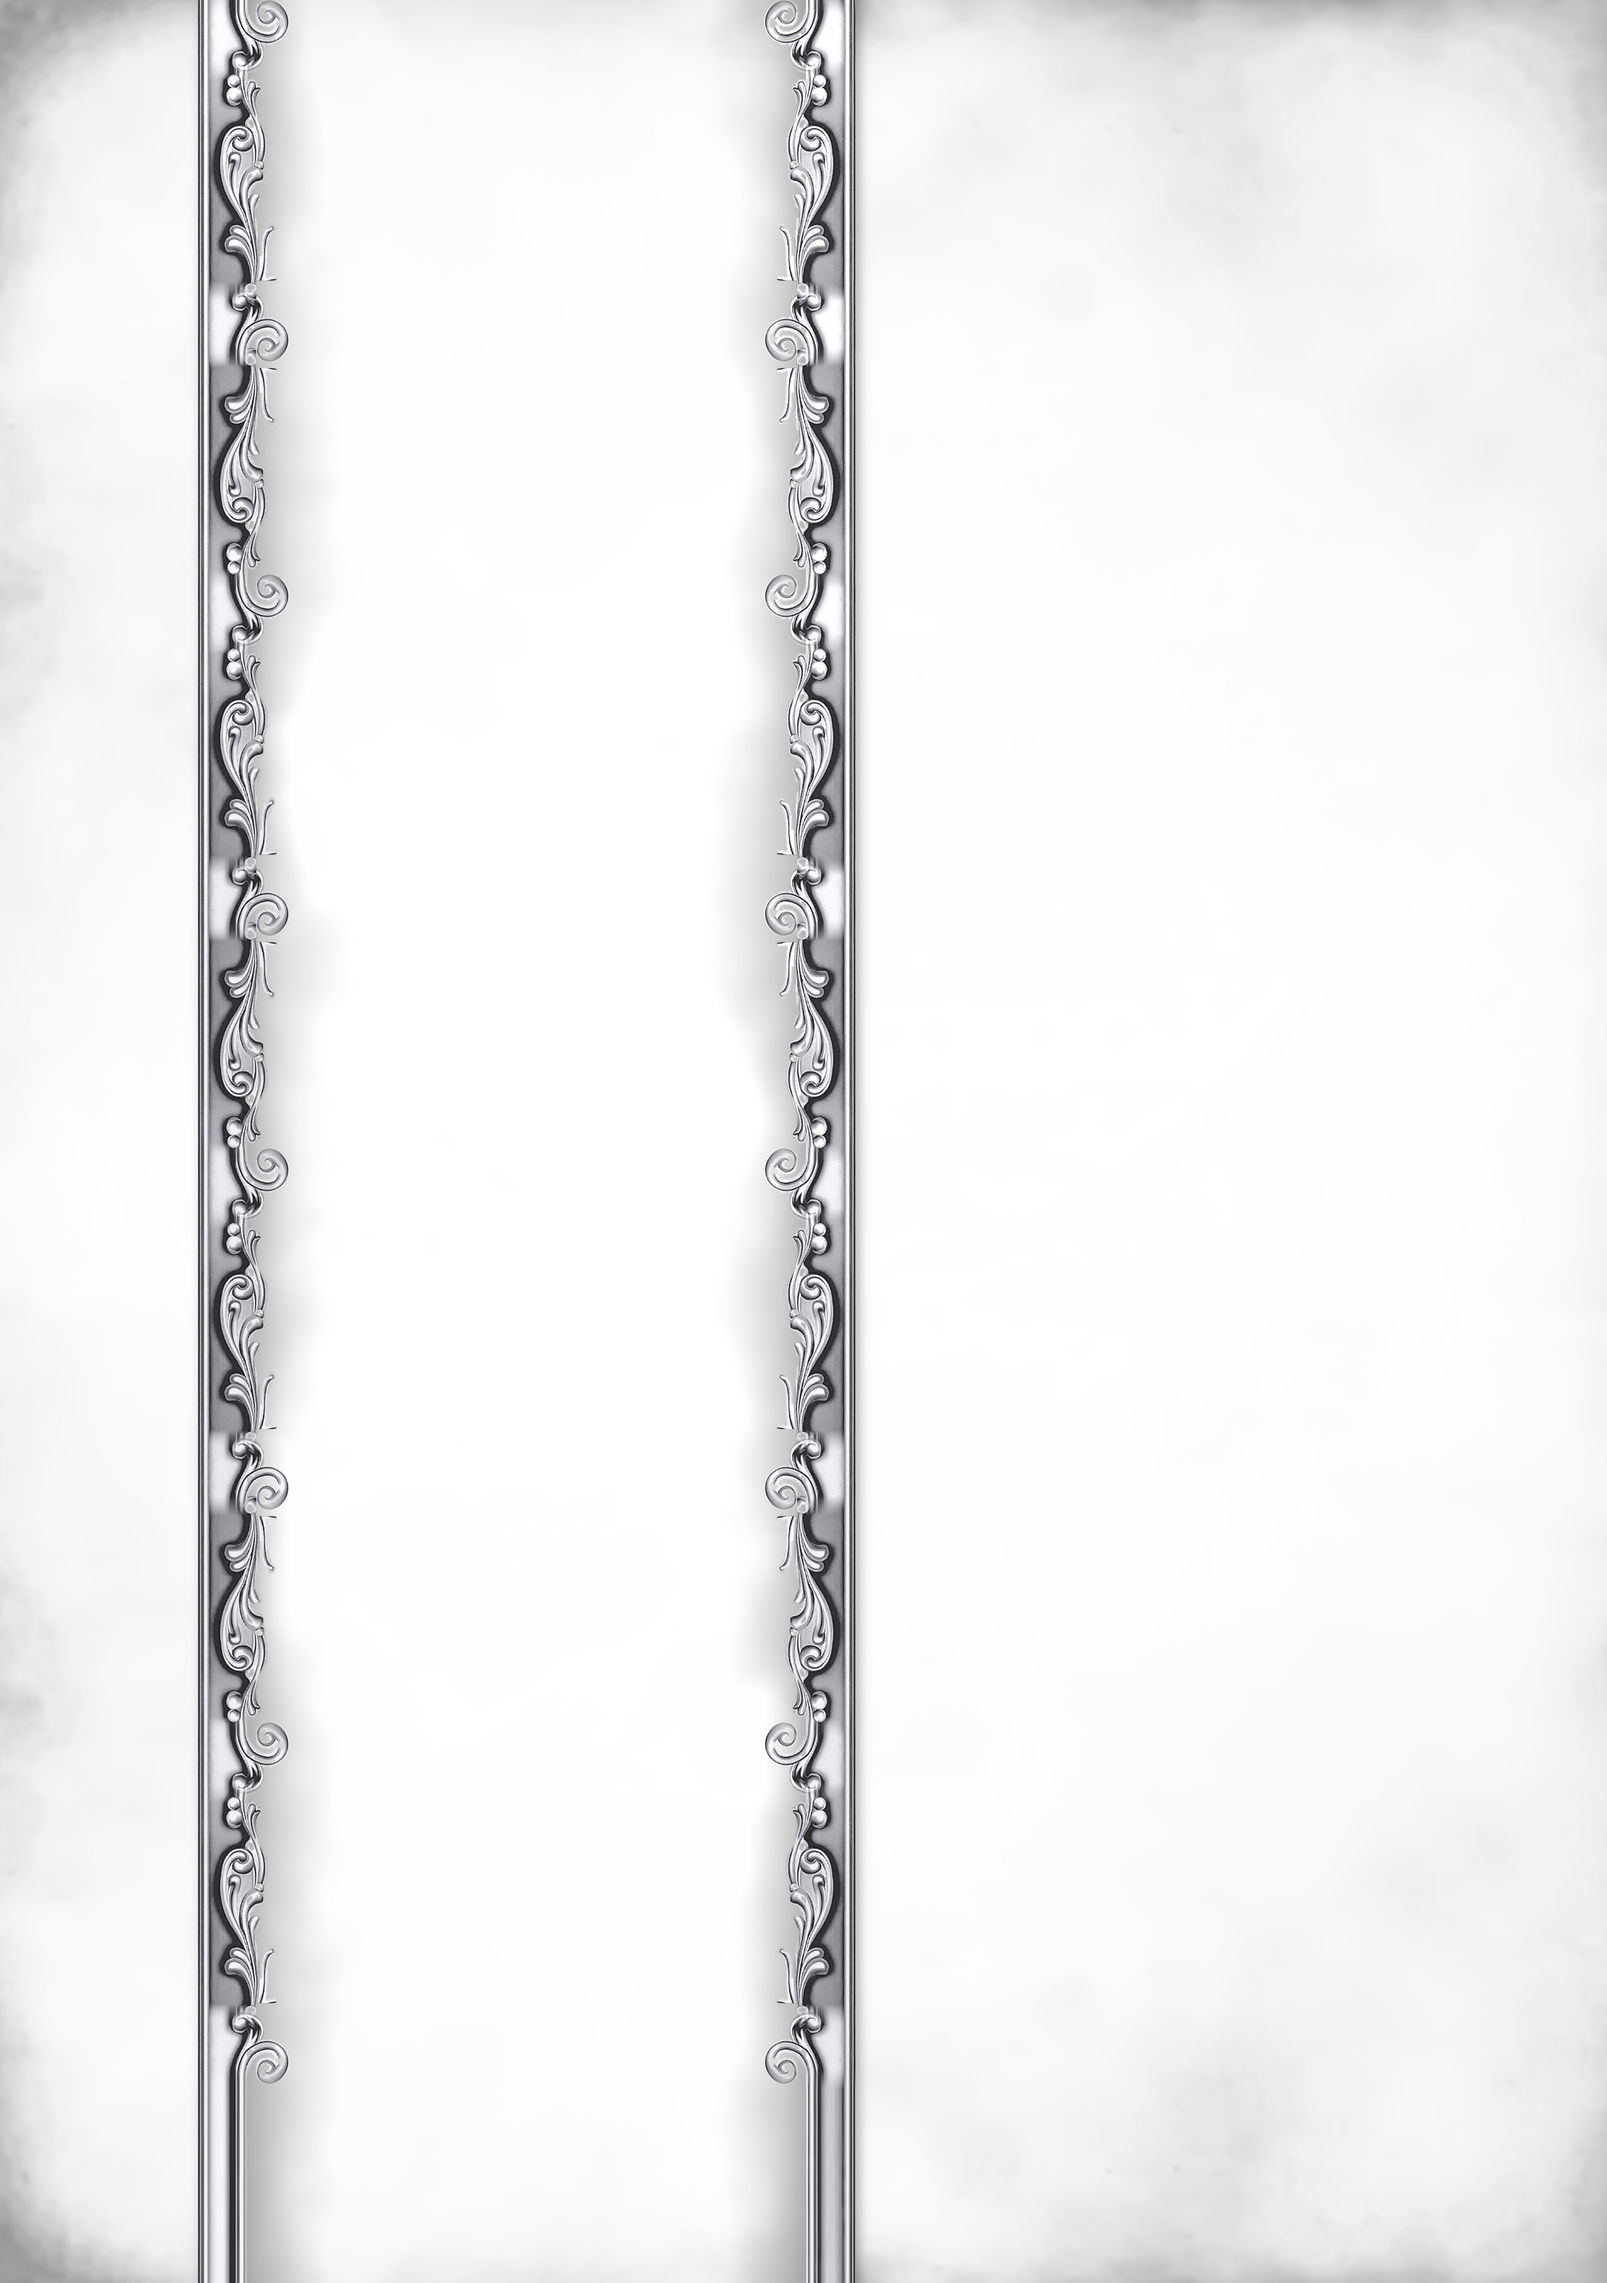
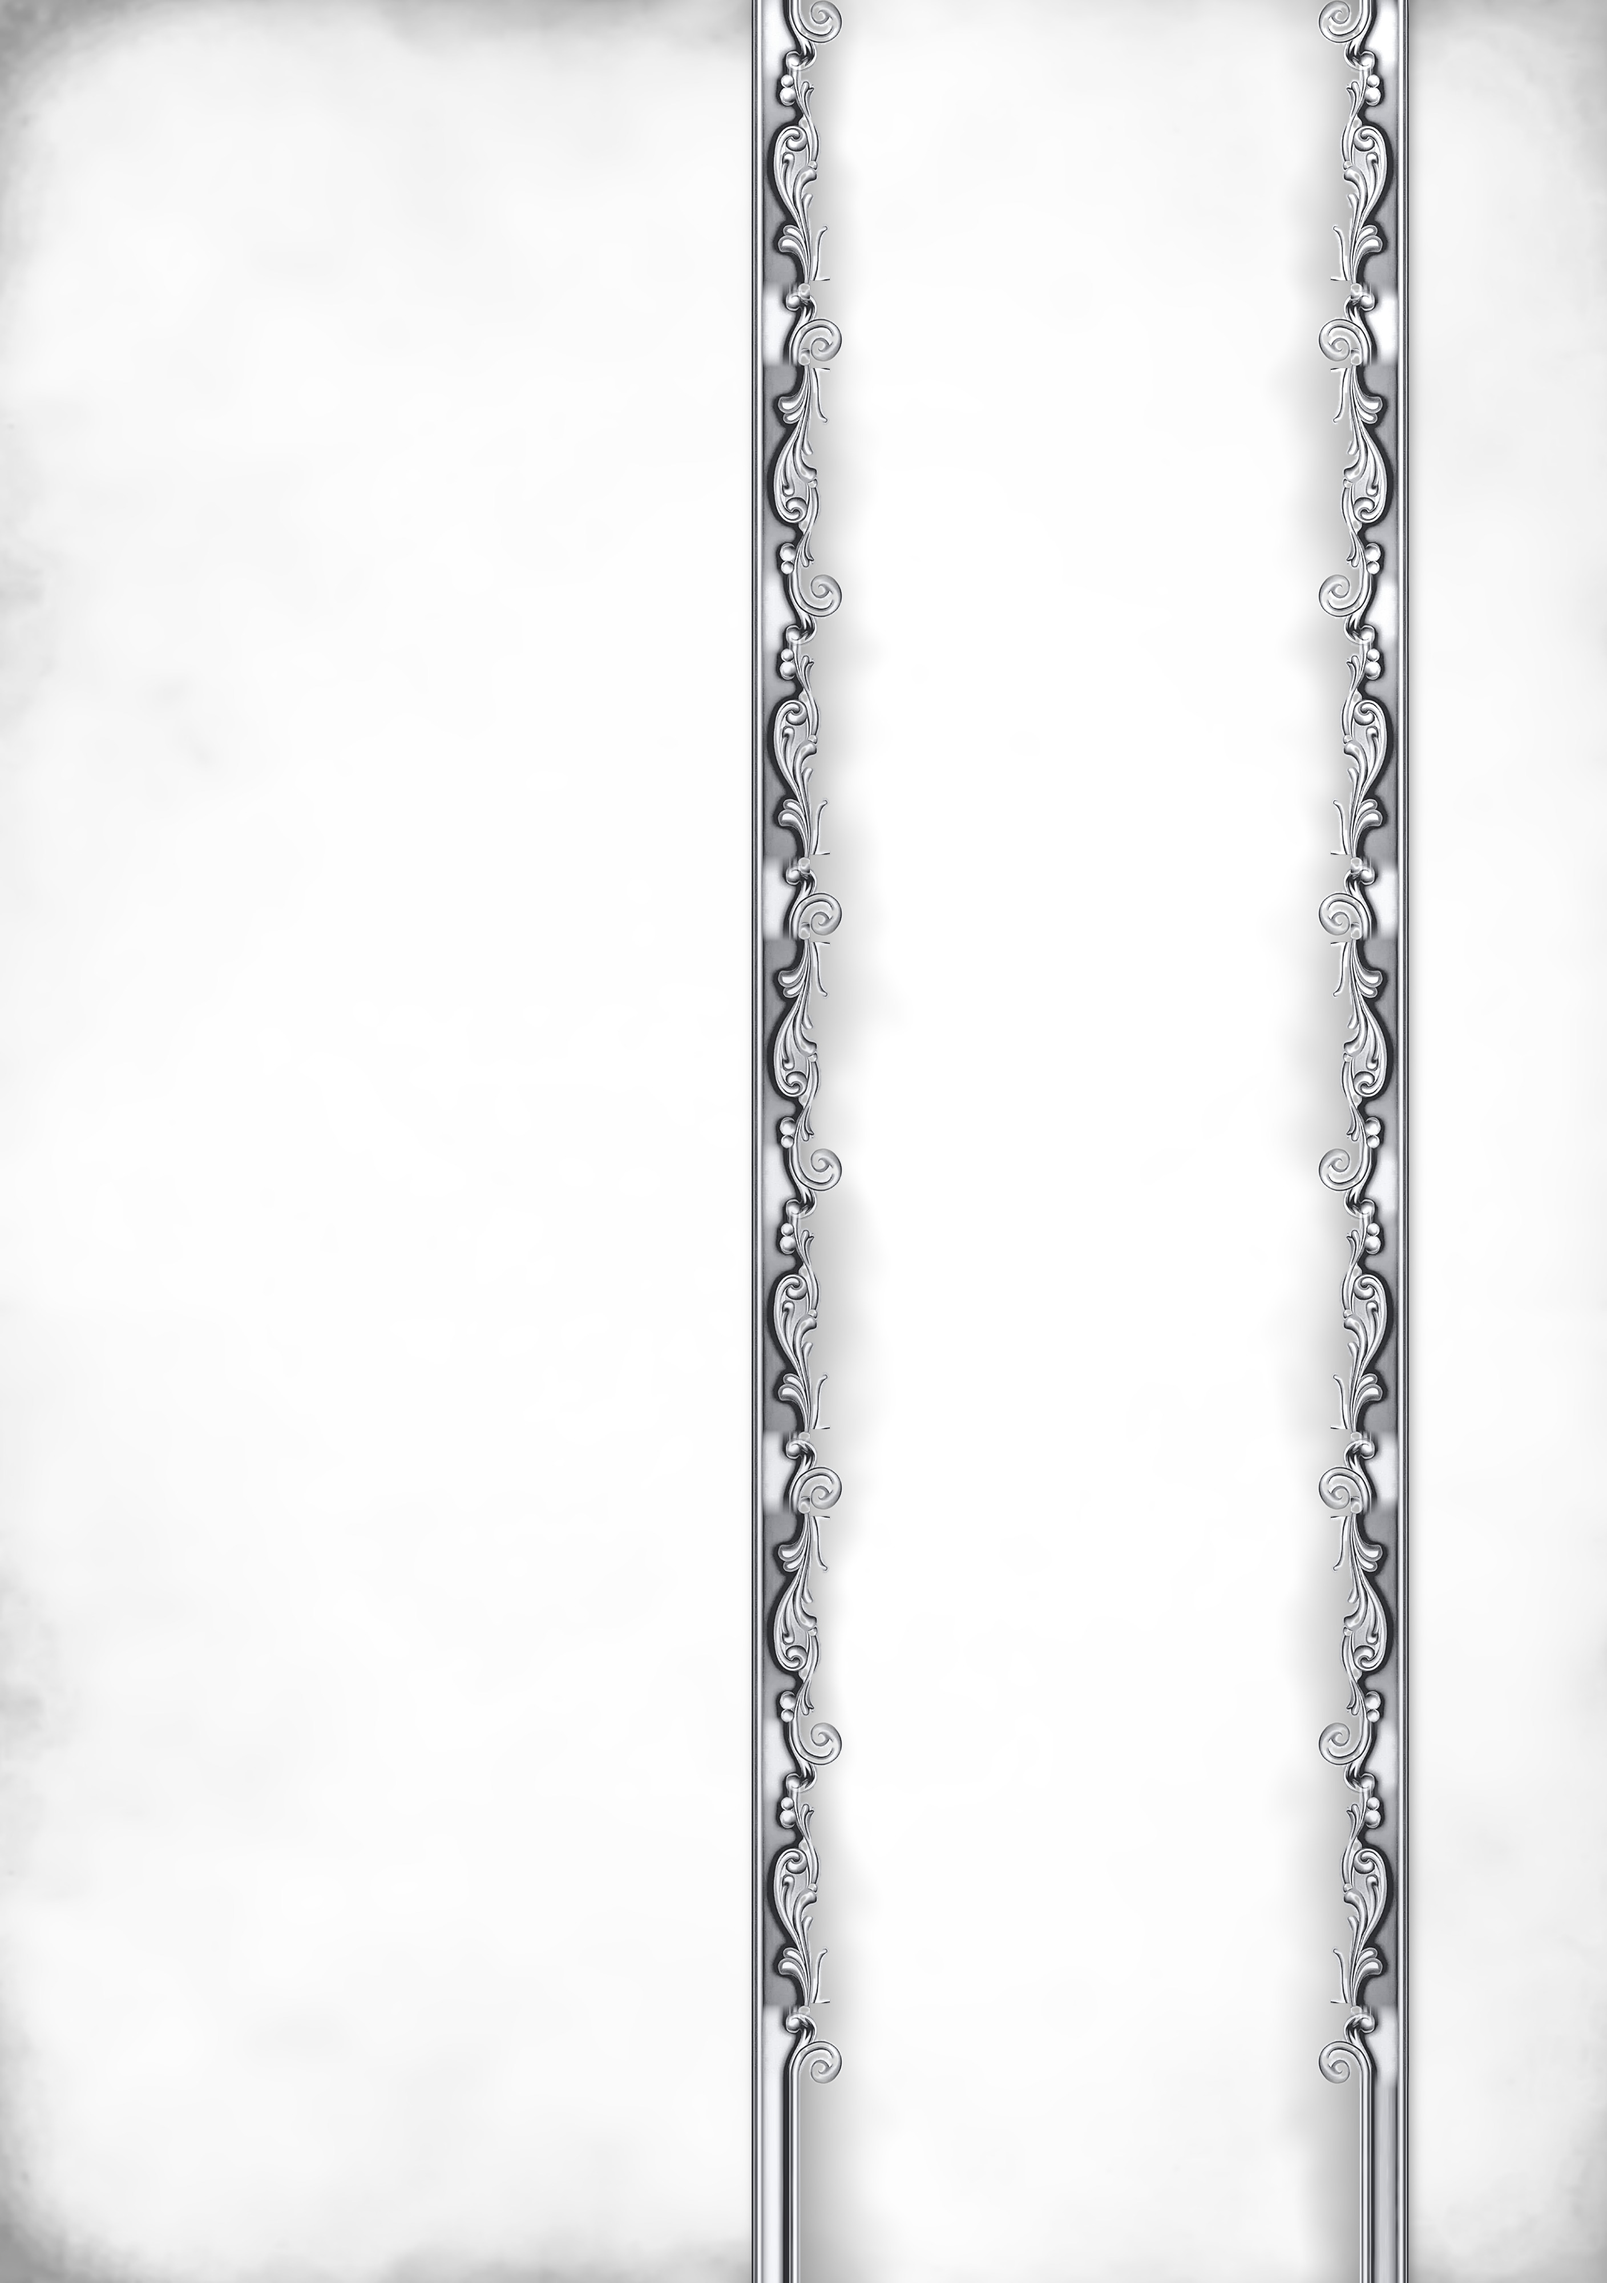
Credits page: Asher, right-hand axis; dividers always on odd pages (empty page before when needed)
Claude-Session: https://claude.ai/code/session_0161ijXJJcwCxR7y44e5HXLU

Changed region(s): [[0.125, 0.0, 0.5625, 1.0], [0.625, 0.0, 0.9062, 1.0]]

diff --git a/typeset/engine.js b/typeset/engine.js
@@ -121,12 +121,12 @@
   // the credits page: the two ornamented pillars of the dividers (artwork by make_divider.py, kind 'credits'), all the details between them, the small flourish between the
   // details; the items (texts, logos, separators) are listed in config.json -> credits.items
   function creditsHTML(cfg) {
-    const K = cfg.credits, F = cfg.fonts || {}, axis = (cfg.divider && cfg.divider.axis) || 57.7, fam = { body: F.body, display: F.display, lead: F.lead };
+    const K = cfg.credits, F = cfg.fonts || {}, axis = K.axis || (cfg.divider && cfg.divider.axis) || 57.7, fam = { body: F.body, display: F.display, lead: F.lead, notes: F.notes };
     const gapOf = (it) => (it.gap !== undefined ? it.gap : K.gap);
     const items = K.items.map((it) => {
       if (it.sep) return `<img src="${K.sep.image}" style="width:${K.sep.w}mm;display:block;margin:0 0 ${gapOf(it)}mm">`;
       if (it.logo) return `<img src="${it.logo}" style="width:${it.w}mm;display:block;margin:0 0 ${gapOf(it)}mm">`;
-      return `<div style="font-family:'${fam[it.font || 'body']}';font-size:${it.size}pt;line-height:${it.lh || 1.3};${it.bold ? 'font-weight:700;' : ''}margin:0 0 ${gapOf(it)}mm">${it.html}</div>`;
+      return `<div style="font-family:'${fam[it.font || K.font || 'body']}';font-size:${it.size}pt;line-height:${it.lh || 1.3};${it.bold ? 'font-weight:700;' : ''}margin:0 0 ${gapOf(it)}mm">${it.html}</div>`;
     }).join('');
     return `<img src="${K.image}" style="position:absolute;left:0;top:0;width:100%;height:100%">` +
       `<style>.crd b{font-weight:700}</style>` +
@@ -809,10 +809,14 @@
     const nToc = tocPlaceholder.length;
     let pageNo = (doc.firstPageNumber || 1) + nToc;       // ToC pages are counted in the numbering, the cover is not
     const startNo = [], divNo = [];
-    seq.forEach((it) => {
-      if (it.kind === 'div') { it.no = pageNo; divNo[it.ai] = pageNo++; }
-      else { startNo[it.ai] = pageNo; artPages[it.ai].forEach((p) => { p.no = pageNo++; }); }
-    });
+    const blanks = [];
+    for (let k = 0; k < seq.length; k++) {                // a divider is always an odd page: where it would fall on an even page, an empty page (counted, no head, no number) goes before it
+      const it = seq[k];
+      if (it.kind === 'div') {
+        if (pageNo % 2 === 0) { seq.splice(k, 0, { kind: 'blank', no: pageNo }); blanks.push(pageNo); pageNo++; k++; }
+        it.no = pageNo; divNo[it.ai] = pageNo++;
+      } else { startNo[it.ai] = pageNo; artPages[it.ai].forEach((p) => { p.no = pageNo++; }); }
+    }
     const tocPages = paginateToc(tocRows((i) => startNo[i], (i) => divNo[i]));
     if (tocPages.length !== nToc) console.log('warning: toc page count changed');
 
@@ -924,6 +928,7 @@
     });
 
     seq.forEach((it) => {
+      if (it.kind === 'blank') { root.appendChild(newPage()); return; }
       if (it.kind === 'div') {
         const pg = newPage();
         if (cfg.divider && cfg.divider.enabled && cfg.cover && cfg.cover.enabled) {
@@ -1034,7 +1039,7 @@
       });
     });
     curPage = null;
-    return { stats: STATS, pages: root.children.length, toc: articles.map((a, i) => ({ title: a.title, page: startNo[i], pages: artPages[i].length })), tocPages: nToc, titleBoxes, dividerBoxes, dividerPages: divNo, dividers: articles.map((a, i) => (a.divider ? { ai: i, label: a.divider } : null)).filter(Boolean), headerTitles: articles.map((a) => headerTitle(a)), headerAuthors: articles.map((a) => headerAuthor(a)) };
+    return { stats: STATS, pages: root.children.length, toc: articles.map((a, i) => ({ title: a.title, page: startNo[i], pages: artPages[i].length })), tocPages: nToc, titleBoxes, dividerBoxes, dividerPages: divNo, blankPages: blanks, dividers: articles.map((a, i) => (a.divider ? { ai: i, label: a.divider } : null)).filter(Boolean), headerTitles: articles.map((a) => headerTitle(a)), headerAuthors: articles.map((a) => headerAuthor(a)) };
   }
 
   window.typeset = typeset;

diff --git a/typeset/pages_preview.js b/typeset/pages_preview.js
@@ -15,7 +15,7 @@ try { ({ chromium } = require('playwright')); } catch (e) { ({ chromium } = requ
   await p.goto('file://' + path.join(__dirname, 'template.html'));
   await p.addStyleTag({ content: css });
   await p.addScriptTag({ path: path.join(__dirname, 'engine.js') });
-  await p.evaluate(async (f) => { await Promise.all(f.flatMap((x) => [400, 700].map((w) => document.fonts.load(w + ' 16px "' + x + '"', 'אבג')))); }, [cfg.cover.fontTitle, cfg.cover.fontArc, cfg.cover.fontLines, cfg.fonts.body, cfg.fonts.display, cfg.fonts.lead]);
+  await p.evaluate(async (f) => { await Promise.all(f.flatMap((x) => [400, 700].map((w) => document.fonts.load(w + ' 16px "' + x + '"', 'אבג')))); }, [cfg.cover.fontTitle, cfg.cover.fontArc, cfg.cover.fontLines, cfg.fonts.body, cfg.fonts.display, cfg.fonts.lead, cfg.fonts.notes]);
   for (const [fn, file] of [['innerCoverHTML', 'inner-cover.png'], ['creditsHTML', 'credits.png']]) {
     await p.evaluate(([c, n, f]) => { document.body.style.margin = '0'; document.body.innerHTML = '<div id="cv" class="page cover" style="width:176mm;height:250mm;position:relative;overflow:hidden">' + window[f](c, n) + '</div>'; }, [cfg, doc.book.name, fn]);
     await p.evaluate(() => Promise.all([...document.images].map((im) => im.decode().catch(() => {}))));

diff --git a/typeset/build.js b/typeset/build.js
@@ -193,7 +193,7 @@ try { ({ chromium } = require('playwright')); } catch (e) { ({ chromium } = requ
     await ip.goto('file://' + path.join(__dirname, 'template.html'));
     await ip.addStyleTag({ content: styleCss });
     await ip.addScriptTag({ path: path.join(__dirname, 'engine.js') });
-    await ip.evaluate(async (fams) => { await Promise.all(fams.flatMap((f) => [400, 700].map((w) => document.fonts.load(w + ' 16px "' + f + '"', 'אבג')))); await document.fonts.ready; }, [cfg.cover.fontTitle, cfg.cover.fontArc, cfg.cover.fontLines, cfg.fonts.body, cfg.fonts.display, cfg.fonts.lead]);
+    await ip.evaluate(async (fams) => { await Promise.all(fams.flatMap((f) => [400, 700].map((w) => document.fonts.load(w + ' 16px "' + f + '"', 'אבג')))); await document.fonts.ready; }, [cfg.cover.fontTitle, cfg.cover.fontArc, cfg.cover.fontLines, cfg.fonts.body, cfg.fonts.display, cfg.fonts.lead, cfg.fonts.notes]);
     for (const [key, fn, file] of [['innerCover', 'innerCoverHTML', 'inner-cover.jpg'], ['credits', 'creditsHTML', 'credits.jpg']]) {
       if (!(cfg[key] && cfg[key].enabled)) continue;
       await ip.evaluate(([c, name, f]) => {

diff --git a/typeset/make_docx.py b/typeset/make_docx.py
@@ -529,7 +529,7 @@ def build(doc_json, layout_json, cfg_json, out):
         div_jpg = os.path.join(os.path.dirname(os.path.abspath(out)), 'dividers', f'div-{ai}.jpg')
         if art.get('divider') and lay and os.path.exists(div_jpg):
             MEDIA.add(f'div-{ai}.jpg', open(div_jpg, 'rb').read())
-            parts.append(para(picture_page(f'div-{ai}.jpg', 176, 250), spacing='<w:spacing w:before="0" w:after="0" w:line="240" w:lineRule="auto"/>', sect=sectpr('nextPage', 1, empty_ids)))
+            parts.append(para(picture_page(f'div-{ai}.jpg', 176, 250), spacing='<w:spacing w:before="0" w:after="0" w:line="240" w:lineRule="auto"/>', sect=sectpr('oddPage', 1, empty_ids)))        # a divider always starts on an odd page (Word adds the empty page)
         elif art.get('divider') and lay:
                 db = lay['dividerBoxes'][art['divider']]
                 parts.append(para('', spacing='<w:spacing w:before="4200" w:after="0" w:line="240" w:lineRule="auto"/>') +

diff --git a/typeset/README.md b/typeset/README.md
@@ -61,3 +61,5 @@ Body ornaments in the antique silver style of the cover and the dividers (a samp
 Inner title page and credits page (after the cover, neither numbered nor counted in the Hebrew numbering): `config.json` → `innerCover` = the cover again in black / white / grey / silver (`make_cover.py` palette `silver`, written to `assets/cover/inner-cover-bg.jpg`; the engine's `innerCoverHTML` puts the same live texts on it, the logo in grey `assets/cover/logo-grey.png` made by `make_divider.make_assets`), `credits` = the page with the details of the organisation (`creditsHTML`): the ornamented pillars of the dividers without the circle (`make_divider.build(kind='credits')` → `credits-bg.jpg`) and between them, centred on the same axis, the items listed in `credits.items` (text, logo or the small flourish `assets/cover/fleuron-sep.png` that separates the details; sizes, fonts and gaps per item). The data (name of the organisation, e-mail, phones, the donations logo `assets/cover/nedarim.png`) were taken from the credits page of the client. `build.js` writes `out/inner-cover.jpg` and `out/credits.jpg` for Word, `make_docx.py` puts them after the cover as full-page pictures. `node pages_preview.js out/dv` renders both pages.
 
 Ornaments of the body: `tint_ornaments.py` now writes the antique silver set (`antique_ornaments.py`, see above) plus the faint cloud behind the article titles (`title-cloud.png`, drawn by `frameHTML` in the PDF and by `compose_ornaments.py` in the Word frames); `python tint_ornaments.py grey` brings back the earlier flat grey ornaments.
+
+Parity of the special pages (the booklet is Hebrew: odd pages are left-hand pages, even pages right-hand pages; the outer edge of an odd page is its left edge): a divider is always an odd page - where it would fall on an even page the engine puts an empty page before it (counted in the numbering, no running head, no number; `blankPages` in the layout json; the ToC numbers follow), and in Word the divider section starts with an odd-page section break, so Word adds the empty page itself. The credits page is an even (right-hand) page, so its pillars and all the details sit on the right side (`credits.axis` / `credits.layout.axis`, mm); its text is set in Asher (`credits.font`: the `notes` role; regular and bold).
